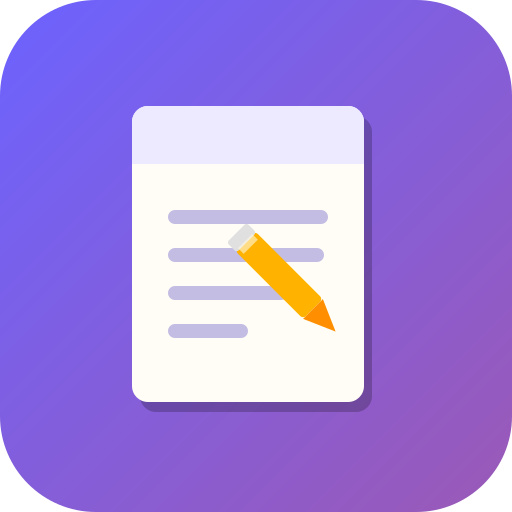
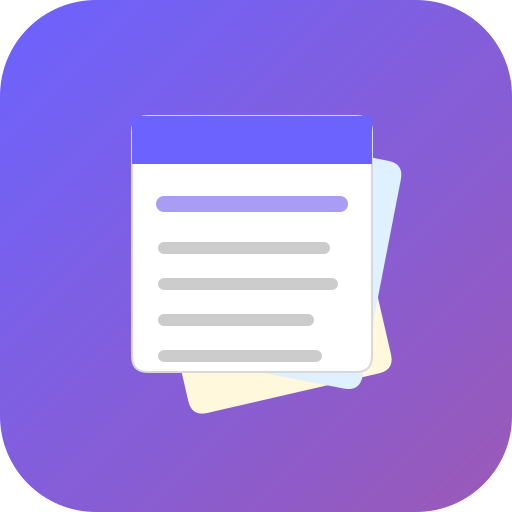
ui fixes

Changed region(s): [[0.25, 0.1875, 0.7812, 0.8125]]

diff --git a/myAlias/index.html b/myAlias/index.html
@@ -8,6 +8,9 @@
   <meta name="apple-mobile-web-app-capable" content="yes">
   <meta name="apple-mobile-web-app-status-bar-style" content="default">
   <meta name="apple-mobile-web-app-title" content="Yalla!">
+  <link rel="icon" href="/icon.svg" type="image/svg+xml">
+  <link rel="icon" href="/icon-192.png" sizes="192x192" type="image/png">
+  <link rel="apple-touch-icon" href="/icon-192.png">
   <link rel="manifest" href="manifest.json">
   <script>
     // Capture beforeinstallprompt early so the deferred module doesn't miss it.
@@ -1231,7 +1234,7 @@
 /* =====================================================
    APP VERSION — update this on each deploy
    ===================================================== */
-const APP_VERSION = "1.7.4";
+const APP_VERSION = "1.7.7";
 
 /* =====================================================
    WORD LISTS — organized by difficulty 1–4